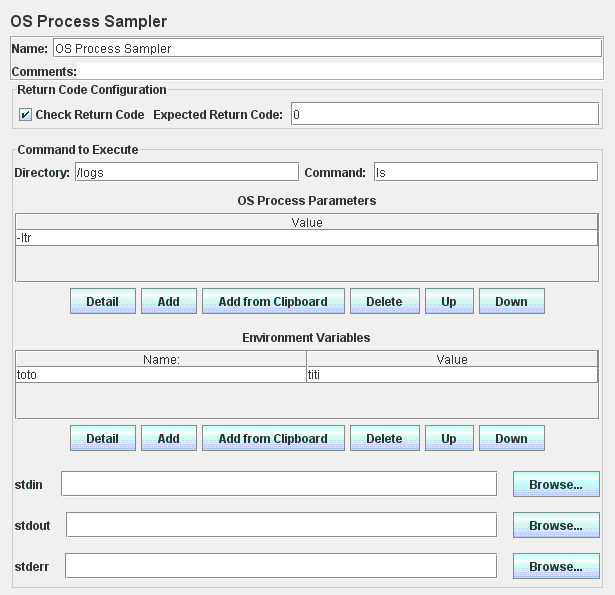
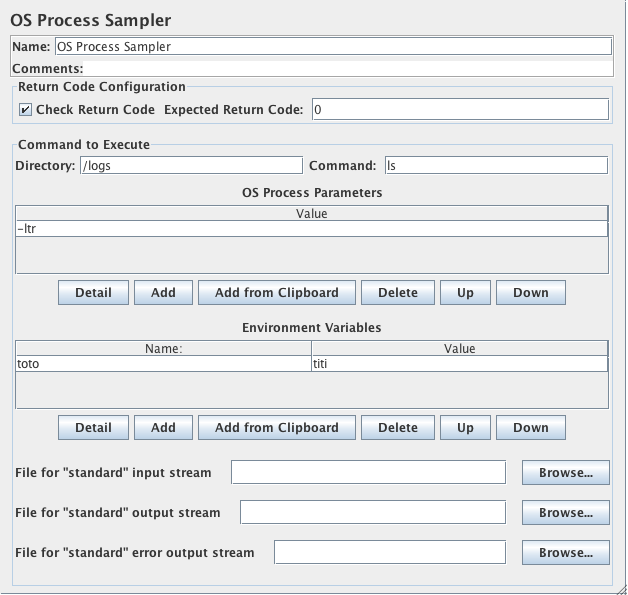
Added i18n for stderr, stdin, stdout Bugzilla Id: 53168
git-svn-id: https://svn.apache.org/repos/asf/jmeter/trunk@1380212 13f79535-47bb-0310-9956-ffa450edef68

Changed region(s): [[0.0, 0.0, 1.0, 1.0]]

diff --git a/src/protocol/native/org/apache/jmeter/protocol/system/gui/SystemSamplerGui.java b/src/protocol/native/org/apache/jmeter/protocol/system/gui/SystemSamplerGui.java
@@ -54,9 +54,9 @@ public class SystemSamplerGui extends AbstractSamplerGui implements ItemListener
     
     private JCheckBox checkReturnCode;
     private JLabeledTextField desiredReturnCode;
-    private final FilePanelEntry stdin = new FilePanelEntry("stdin ");
-    private final FilePanelEntry stdout = new FilePanelEntry("stdout");
-    private final FilePanelEntry stderr = new FilePanelEntry("stderr");
+    private final FilePanelEntry stdin = new FilePanelEntry(JMeterUtils.getResString("system_sampler_stdin"));
+    private final FilePanelEntry stdout = new FilePanelEntry(JMeterUtils.getResString("system_sampler_stdout"));
+    private final FilePanelEntry stderr = new FilePanelEntry(JMeterUtils.getResString("system_sampler_stderr"));
     private JLabeledTextField directory;
     private JLabeledTextField command;
     private ArgumentsPanel argsPanel;
